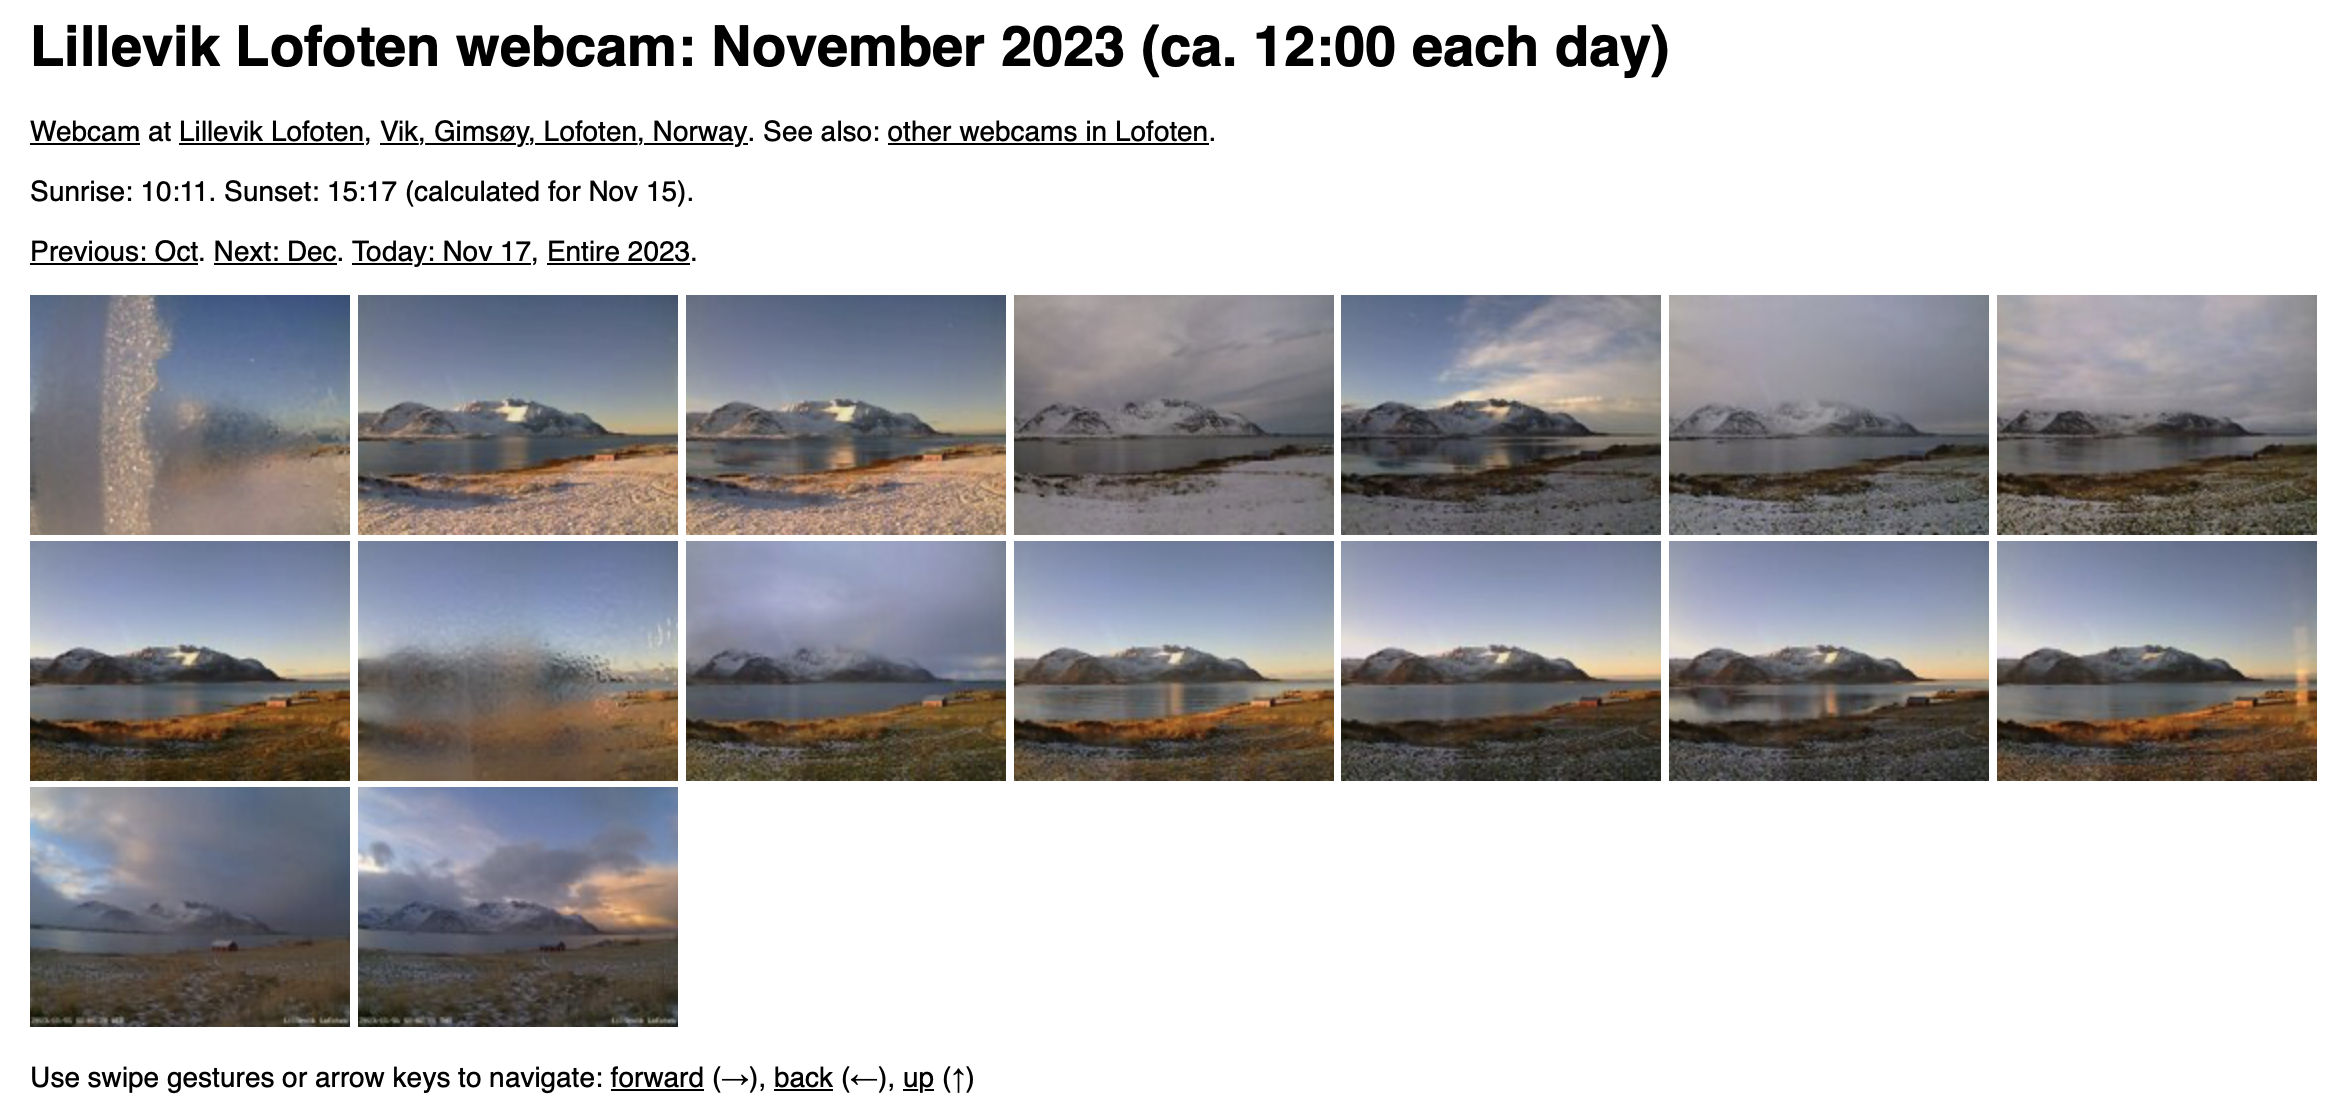
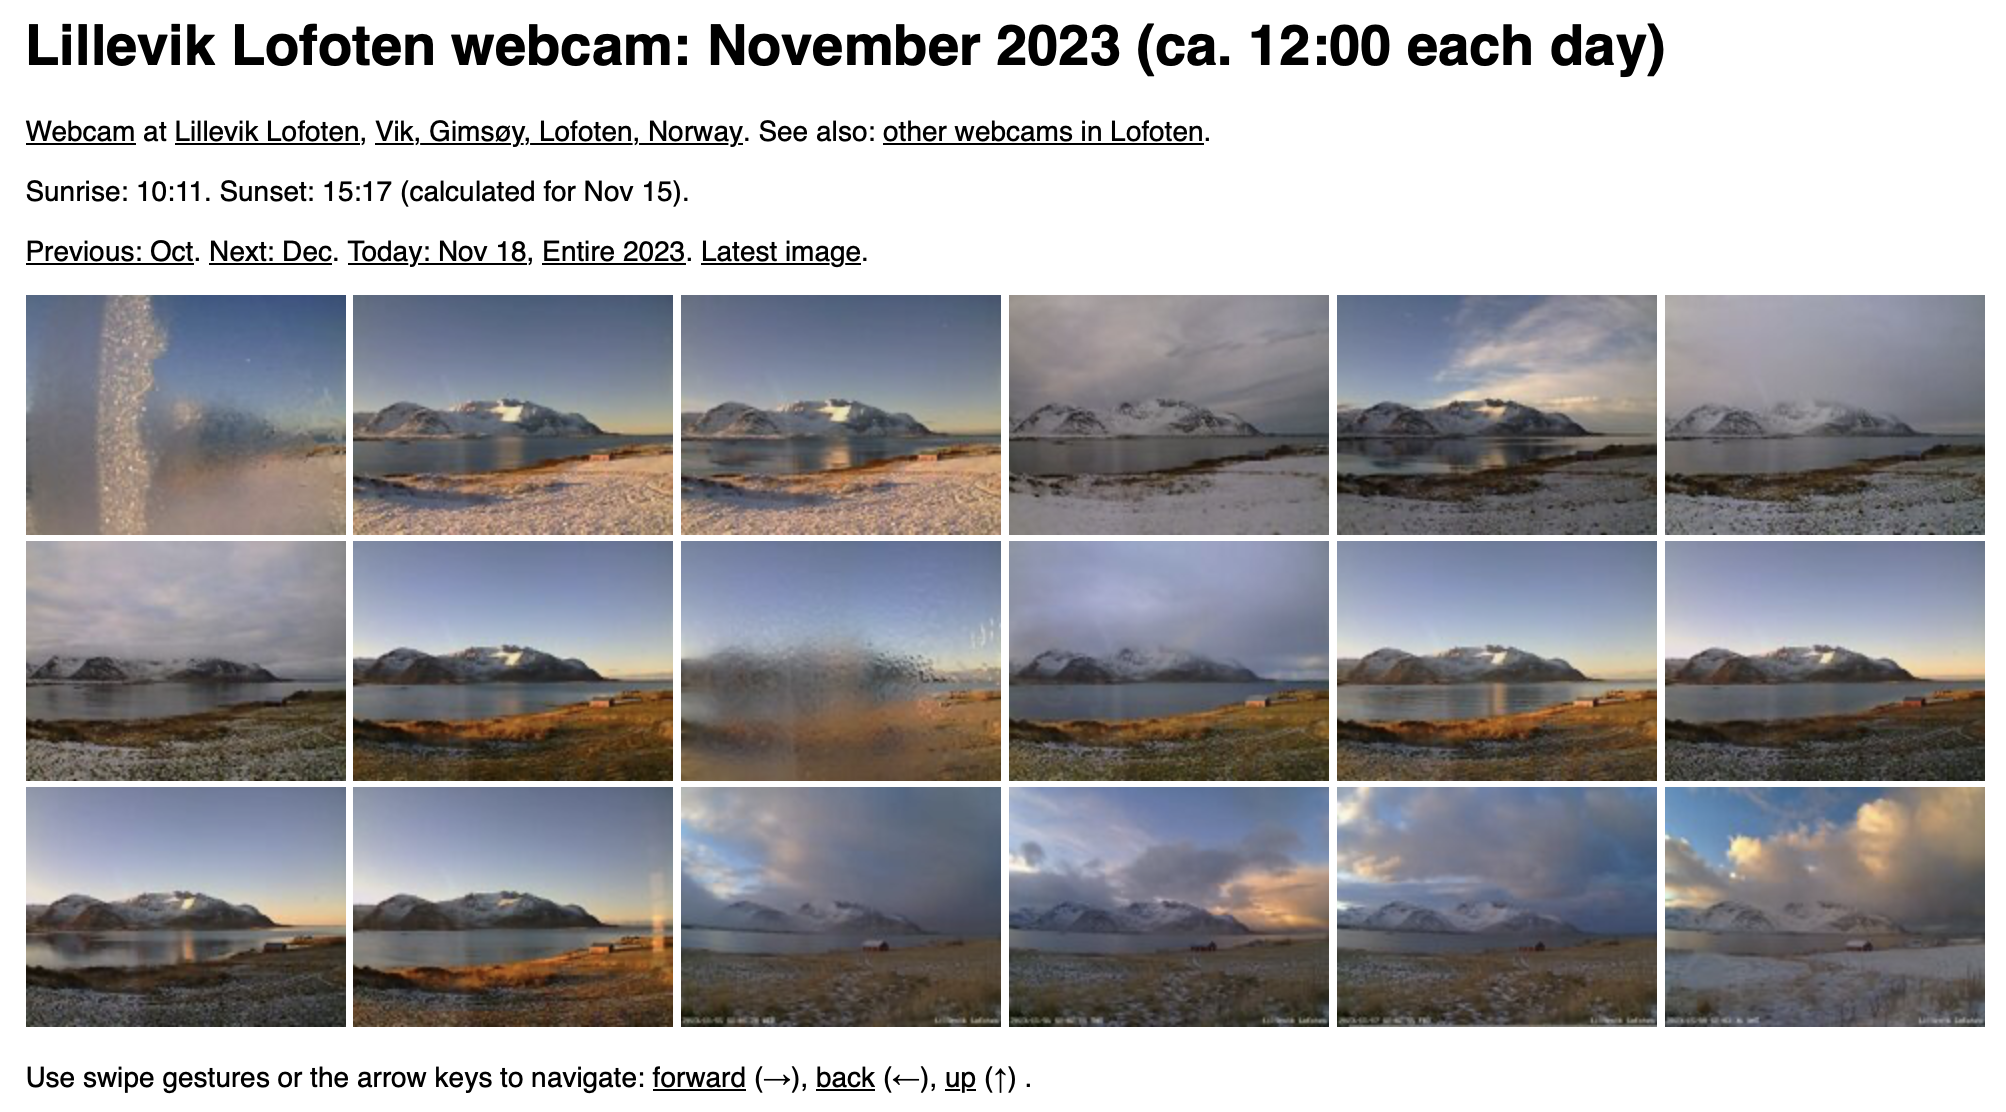
More fixing

diff --git a/webcam.php b/webcam.php
@@ -213,6 +213,7 @@ function polar_night($timestamp, $latitude, $longitude) {
 
 // Find sunrise and sunset, return all kinds of stuff we need later.
 // Fakes sunrise and sunset for midnight sun and polar night.
+// Adjusts dawn and susk to be the same day as sunrise and sunset.
 // ------------------------------------------------------------
 function find_sun_times($timestamp) {
     // Return timestamps for everything.
@@ -230,7 +231,6 @@ function find_sun_times($timestamp) {
     $polar_night_fake_dawn_hour = $polar_night_fake_sunrise_hour - $adjust_dawn_dusk_hours;
     $polar_night_fake_dusk_hour = $polar_night_fake_sunset_hour + $adjust_dawn_dusk_hours;
     $polar_night_hours = 30; // Adding this to the hours below.
-
 
     // Where: Årstrandveien 663, 8314 Gimsøysand: 68.33007, 14.09165
     $latitude = 68.33007; // North
@@ -488,13 +488,13 @@ function print_all_years() {
     global $mini_image_height;
    
     $start_year = 2015;
-    $monthly_days = [1, 7, 14, 21, 28];
     $this_year = date('Y');
+    $monthly_days = [1, 7, 14, 21, 28]; // Only show these days in each month.
 
     $previous = $next = $up = $down = false;
     page_header("Lillevik Lofoten webcam: $start_year" . "-" . "$this_year", $previous, $next, $up, $down);
     echo "<p>Displaying images for $monthly_hour:00 on the $monthly_day" . "th for each month for all year.</p>\n";
-    echo "<a href=\"?type=day&date=" .  date('Ymd') . "\">Today: " . date("M d") . "</a> \n";
+    echo "<p>\n<a href=\"?type=day&date=" .  date('Ymd') . "\">Today: " . date("M d") . "</a> \n";
     echo "<a href=\"?type=last\">Latest image</a>.\n";
     echo "</p>\n\n";
         
@@ -509,6 +509,7 @@ function print_all_years() {
         $image_filename = "";
 
         // Loop through all months for this year.
+        echo "<p>\n";
         for ($month = 1; $month <= 12; $month++) {
             $month = sprintf("%02d", $month);
 
@@ -517,16 +518,11 @@ function print_all_years() {
 
                 // Find first image for the $monthly_day taken after $monthly_hour
                 debug("find_first_image_after_time($year, $month, $monthly_day, $monthly_hour, 0, 0);");
-                print "<p>find_first_image_after_time($year, $month, $monthly_day, $monthly_hour, 0, 0);</p>\n";
                 $yyyymmddhhmmss = find_first_image_after_time($year, $month, $monthly_day, $monthly_hour, 0, 0);
                 if ($yyyymmddhhmmss) {
                     // There was an image.
                     $hour = substr($yyyymmddhhmmss, 8, 2);
                     $minute = substr($yyyymmddhhmmss, 10, 2);
-                    // Print it!
-                    if ($images_printed == 0) {
-                        echo "<p>\n"; 
-                    }
                     // Print mini images (never large images for full years), link to all images for that day.
                     echo "<a href=\"?type=one&image=$yyyymmddhhmmss\">";
                     echo "<img alt=\"Lillevik Lofoten webcam: $year-$month--$monthly_day $hour:$minute\" ";
@@ -542,10 +538,11 @@ function print_all_years() {
                 }    
             } 
         }
-        if ($images_printed > 0) {
-            echo "</p>\n";
+        if ($images_printed == 0) {
+            echo "(No photos to display for $year)\n";   
         }
-
+        echo "</p>\n\n"; 
+        
     }
     footer($images_printed, $previous, $next, $up, $down);
 }
@@ -942,6 +939,7 @@ function print_full_day($timestamp, $image_size, $number_of_images) {
     $directory = date('Y/m/d', $timestamp);
     $images_printed = 0;
     debug("Getting images from directory: <a href=\"$directory\">$directory</a>");
+    echo "<p>\n";
     if (file_exists($directory)) {
         debug("Directory exists: ". $directory);  
         $images = glob("$directory/*.jpg");
@@ -949,26 +947,22 @@ function print_full_day($timestamp, $image_size, $number_of_images) {
         foreach(array_reverse($images) as $image) {
             // Each filename is of this type: "2023/11/14/20231114134047.jpg".
             $yyyymmddhhmmss = get_yyyymmddhhmmss($image); // Get the "20231114134047" part.
-            list($year, $month, $day, $hour, $minute, $seconds) = split_image_filename($yyyymmddhhmmss); // Split into variables.
+            list($year, $month, $day, $hour, $minute, $seconds) = split_image_filename($yyyymmddhhmmss);
             
             // Create timestamp to check if this image is from between dawn and dusk.
             $image_timestamp = mktime($hour, $minute, $seconds, $month, $day, $year);
 
             // Check if the image is between dawn and dusk.
             if ($image_timestamp >= $dawn && $image_timestamp <= $dusk) {
-                if ($images_printed === 0) {
-                    echo "<p>\n";
+                if ($image_size == "large") {
+                    // Large images: Print full size with linebreaks.
+                    echo "<p>\n\n";
                 }
             
                 $imagePath = "$year/$month/$day/";
                 $imagePath .= ($image_size != "large" && file_exists("$imagePath/mini/$yyyymmddhhmmss.jpg")) ? "mini/" : "";
                 
-                echo "<a ";
-                //echo "style=\"position: relative; display: inline-block;\" ";
-                echo "href=\"?type=one&image=$year$month$day$hour$minute$seconds\">";
-
-                //echo "<div class=\"mini\">";
-
+                echo "<a href=\"?type=one&image=$year$month$day$hour$minute$seconds\">";
                 echo "<img alt=\"Lillevik Lofoten webcam: $year-$month-$day $hour:$minute\" ";
                 echo "title=\"$year-$month-$day $hour:$minute\" ";
                 if ($image_size == "large") {
@@ -979,13 +973,7 @@ function print_full_day($timestamp, $image_size, $number_of_images) {
                     echo "height=\"$mini_image_height\" ";
                 }
                 echo "src=\"$imagePath$yyyymmddhhmmss.jpg\">";
-
-                //echo "<b>$hour:$minute</b>";
-                //echo "</div>";
-
                 echo "</a>\n";
-
-                //echo "<span class=\"time-overlay\">$hour:$minute</span>";
     
                 if ($image_size == "large") {
                     // Large images: Print full size with linebreaks.

diff --git a/README.md b/README.md
@@ -79,7 +79,8 @@ A single image: https://lilleviklofoten.no/webcam/?type=one&image=20231117095251
 
 One full day: https://lilleviklofoten.no/webcam/?type=day&date=20231117
 
-![Webcam example screenshot: Day](images/webcam-example-day.png)
+![Webcam example screenshot: Day](images/webcam-example-day-1.png)
+![Webcam example screenshot: Day](images/webcam-example-day-2.png)
 
 One full month: https://lilleviklofoten.no/webcam/?type=month&year=2023&month=11
 
